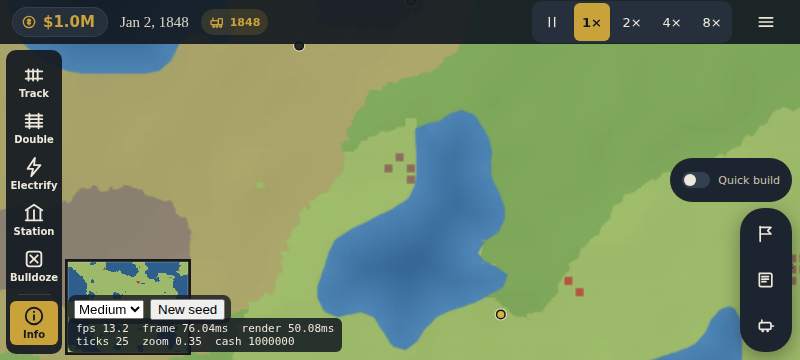
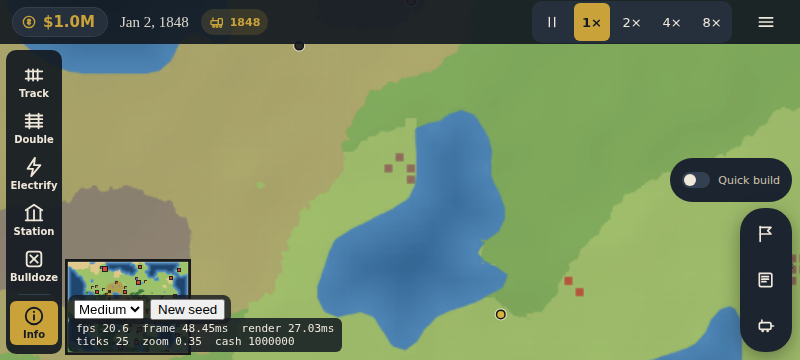
Phase 25B: terrain-coloured minimap with industry dots, red city squares, dark track
Claude-Session: https://claude.ai/code/session_01XTFMv1jFciswgpu9t5rM9q

diff --git a/src/render/minimap.ts b/src/render/minimap.ts
@@ -10,19 +10,54 @@ import type { GameMap } from "../sim/map/types";
 import type { TrackGraph } from "../sim/track/graph";
 import type { Station } from "../sim/stations/types";
 import type { City } from "../sim/economy/types";
-import { terrainId } from "../sim/map/terrain";
+import { terrainId, type Terrain } from "../sim/map/terrain";
+import type { Industry } from "../sim/economy/types";
+import { shoreDistanceField } from "./terrain";
+import { industryMarkerColor } from "./zoomMarkers";
 import { Camera, TILE_SIZE } from "./camera";
 import {
-  CITY_ROOF_COLORS,
   MINIMAP_BG,
+  MINIMAP_CITY_COLOR,
+  MINIMAP_PEAK_COLOR,
+  MINIMAP_TERRAIN_COLORS,
+  MINIMAP_WATER_DEEP,
+  MINIMAP_WATER_SHALLOW,
   MINIMAP_STATION_COLOR,
   MINIMAP_TRACK_COLOR,
   MINIMAP_VIEWPORT_BORDER,
-  TERRAIN_COLORS,
-  WATER_DEEP_COLOR,
 } from "./palette";
 
 const WATER_ID = terrainId("water");
+const MOUNTAIN_ID = terrainId("mountain");
+/** Tiles from the shore at which mini-map water reaches its deepest colour. */
+const WATER_DEPTH_REACH = 8;
+const CITY_SQUARE_PX: Record<City["tier"], number> = {
+  village: 2,
+  town: 3,
+  city: 4,
+  metropolis: 5,
+};
+
+type Rgb = readonly [number, number, number];
+function rgbOf(hex: string): Rgb {
+  return [
+    parseInt(hex.slice(1, 3), 16),
+    parseInt(hex.slice(3, 5), 16),
+    parseInt(hex.slice(5, 7), 16),
+  ];
+}
+function mixRgb(a: Rgb, b: Rgb, t: number): Rgb {
+  return [a[0] + (b[0] - a[0]) * t, a[1] + (b[1] - a[1]) * t, a[2] + (b[2] - a[2]) * t];
+}
+const WATER_SHALLOW_RGB = rgbOf(MINIMAP_WATER_SHALLOW);
+const WATER_DEEP_RGB = rgbOf(MINIMAP_WATER_DEEP);
+const MOUNTAIN_RGB = rgbOf(MINIMAP_TERRAIN_COLORS.mountain);
+const PEAK_RGB = rgbOf(MINIMAP_PEAK_COLOR);
+const PLAIN_RGB = rgbOf(MINIMAP_TERRAIN_COLORS.plain);
+const TERRAIN_RGB: Array<Rgb | undefined> = [];
+for (const t of Object.keys(MINIMAP_TERRAIN_COLORS) as Terrain[]) {
+  TERRAIN_RGB[terrainId(t)] = rgbOf(MINIMAP_TERRAIN_COLORS[t]);
+}
 
 export interface MiniMapRect {
   x: number;
@@ -57,6 +92,7 @@ export class MiniMapRenderer {
   private buildCache(
     trackGraph: TrackGraph,
     cities: readonly City[],
+    industries: readonly Industry[],
     sizePx: number,
   ): HTMLCanvasElement {
     const map = this.map;
@@ -68,39 +104,60 @@ export class MiniMapRenderer {
     canvas.height = h;
     const cctx = canvas.getContext("2d") as CanvasRenderingContext2D;
 
+    // Ground: every mini-map pixel is the average colour of the tiles under it (a box filter, so
+    // forests, hills and coasts stay soft instead of aliasing to one sampled tile).
+    const shore = shoreDistanceField(map);
+    const tileRgb = new Uint8Array(map.width * map.height * 3);
+    for (let idx = 0; idx < map.width * map.height; idx++) {
+      const id = map.terrain[idx] as number;
+      let rgb: readonly [number, number, number];
+      if (id === WATER_ID) {
+        rgb = mixRgb(
+          WATER_SHALLOW_RGB,
+          WATER_DEEP_RGB,
+          Math.min(1, Math.max(0, (shore[idx] as number) - 1) / WATER_DEPTH_REACH),
+        );
+      } else if (id === MOUNTAIN_ID) {
+        // Peaks lighter: the higher the mountain tile, the closer to the snow colour.
+        const peak = Math.min(1, Math.max(0, ((map.elevation[idx] as number) - 6) / 6));
+        rgb = mixRgb(MOUNTAIN_RGB, PEAK_RGB, peak * 0.85);
+      } else {
+        rgb = TERRAIN_RGB[id] ?? PLAIN_RGB;
+      }
+      tileRgb[idx * 3] = rgb[0];
+      tileRgb[idx * 3 + 1] = rgb[1];
+      tileRgb[idx * 3 + 2] = rgb[2];
+    }
     const img = cctx.createImageData(w, h);
     for (let py = 0; py < h; py++) {
-      const ty = Math.min(map.height - 1, Math.floor((py / h) * map.height));
+      const ty0 = Math.min(map.height - 1, Math.floor((py / h) * map.height));
+      const ty1 = Math.min(map.height, Math.max(ty0 + 1, Math.ceil(((py + 1) / h) * map.height)));
       for (let px = 0; px < w; px++) {
-        const tx = Math.min(map.width - 1, Math.floor((px / w) * map.width));
-        const idx = ty * map.width + tx;
-        const isWater = (map.terrain[idx] as number) === WATER_ID;
-        const hex = isWater ? WATER_DEEP_COLOR : TERRAIN_COLORS.plain;
-        const r = parseInt(hex.slice(1, 3), 16);
-        const g = parseInt(hex.slice(3, 5), 16);
-        const b = parseInt(hex.slice(5, 7), 16);
+        const tx0 = Math.min(map.width - 1, Math.floor((px / w) * map.width));
+        const tx1 = Math.min(map.width, Math.max(tx0 + 1, Math.ceil(((px + 1) / w) * map.width)));
+        let r = 0;
+        let g = 0;
+        let b = 0;
+        let n = 0;
+        for (let ty = ty0; ty < ty1; ty++) {
+          for (let tx = tx0; tx < tx1; tx++) {
+            const o = (ty * map.width + tx) * 3;
+            r += tileRgb[o] as number;
+            g += tileRgb[o + 1] as number;
+            b += tileRgb[o + 2] as number;
+            n++;
+          }
+        }
         const o = (py * w + px) * 4;
-        img.data[o] = r;
-        img.data[o + 1] = g;
-        img.data[o + 2] = b;
+        img.data[o] = r / n;
+        img.data[o + 1] = g / n;
+        img.data[o + 2] = b / n;
         img.data[o + 3] = 255;
       }
     }
     cctx.putImageData(img, 0, 0);
 
-    // Cities: a small tinted patch per footprint tile, cycling the same roof colors used on-map.
-    for (const city of cities) {
-      cctx.fillStyle = CITY_ROOF_COLORS[city.id % CITY_ROOF_COLORS.length] as string;
-      for (const idx of city.tiles) {
-        const x = idx % map.width;
-        const y = Math.floor(idx / map.width);
-        const px = Math.floor((x / map.width) * w);
-        const py = Math.floor((y / map.height) * h);
-        cctx.fillRect(px, py, 1, 1);
-      }
-    }
-
-    // Track: thin lines between edge endpoints.
+    // Track: thin dark lines between edge endpoints.
     cctx.strokeStyle = MINIMAP_TRACK_COLOR;
     cctx.lineWidth = 1;
     cctx.beginPath();
@@ -113,6 +170,36 @@ export class MiniMapRenderer {
       cctx.lineTo(bx, by);
     }
     cctx.stroke();
+
+    // Industries: tiny dots in the colour of their main product, on a dark pip so they read on any
+    // ground.
+    industries.forEach((ind, i) => {
+      if ((map.industryId[ind.y * map.width + ind.x] as number) !== i) return;
+      const x = Math.floor(((ind.x + 0.5) / map.width) * w);
+      const y = Math.floor(((ind.y + 0.5) / map.height) * h);
+      cctx.fillStyle = "rgba(14, 14, 18, 0.75)";
+      cctx.fillRect(x - 1, y - 1, 3, 3);
+      cctx.fillStyle = industryMarkerColor(ind.type);
+      cctx.fillRect(x, y, 2, 2);
+    });
+
+    // Cities: small red squares at the footprint centre, bigger for bigger cities.
+    for (const city of cities) {
+      if (city.tiles.length === 0) continue;
+      let sx = 0;
+      let sy = 0;
+      for (const idx of city.tiles) {
+        sx += idx % map.width;
+        sy += Math.floor(idx / map.width);
+      }
+      const side = CITY_SQUARE_PX[city.tier];
+      const x = Math.round(((sx / city.tiles.length + 0.5) / map.width) * w - side / 2);
+      const y = Math.round(((sy / city.tiles.length + 0.5) / map.height) * h - side / 2);
+      cctx.fillStyle = "rgba(14, 14, 18, 0.7)";
+      cctx.fillRect(x - 0.5, y - 0.5, side + 1, side + 1);
+      cctx.fillStyle = MINIMAP_CITY_COLOR;
+      cctx.fillRect(x, y, side, side);
+    }
 
     return canvas;
   }
@@ -158,6 +245,7 @@ export class MiniMapRenderer {
     trackGraph: TrackGraph,
     stations: readonly Station[],
     cities: readonly City[],
+    industries: readonly Industry[],
     trackVersion: number,
     mapContentVersion: number,
     sizePx: number = MINIMAP_SIZE_PX,
@@ -165,7 +253,7 @@ export class MiniMapRenderer {
     const rect = this.screenRect(viewportH, sizePx);
     const key = `${sizePx}|${trackVersion}|${mapContentVersion}`;
     if (!this.cache || this.cacheKey !== key) {
-      this.cache = this.buildCache(trackGraph, cities, sizePx);
+      this.cache = this.buildCache(trackGraph, cities, industries, sizePx);
       this.cacheKey = key;
     }
 

diff --git a/e2e/phase25b.spec.ts b/e2e/phase25b.spec.ts
@@ -46,3 +46,28 @@ test("random map", async ({ page }) => {
   ]);
   for (const z of [0.35, 0.6, 1]) await shot(page, w / 2, h / 2, z, `random-z${z}`);
 });
+
+test.describe("minimap", () => {
+  test.use({ deviceScaleFactor: 3 });
+  test("minimap close-ups", async ({ page }) => {
+    await page.setViewportSize({ width: 800, height: 360 });
+    for (const [name, opts] of [
+      ["central-eu", { seed: 1, region: "central-eu" }],
+      ["random", { seed: 777, size: "medium", waterLevel: "normal", startYear: 1848 }],
+    ] as const) {
+      await page.goto("/?debug=1");
+      await page.waitForFunction(() => window.__game !== undefined);
+      await page.evaluate((o) => window.__game?.regenerate(o as never), opts);
+      // Hide the debug controls that sit over the minimap.
+      await page.evaluate(() => {
+        document.querySelector<HTMLElement>("#debug-overlay")?.style.setProperty("display", "none");
+        document.querySelector("select")?.parentElement?.style.setProperty("display", "none");
+      });
+      await page.waitForTimeout(700);
+      await page.screenshot({
+        path: `docs/screenshots/${PREFIX}-minimap-${name}.png`,
+        clip: { x: 60, y: 200, width: 150, height: 160 },
+      });
+    }
+  });
+});

diff --git a/src/render/palette.ts b/src/render/palette.ts
@@ -117,7 +117,22 @@ export const OVERLAY_PROFIT_NEUTRAL = "#B8BDC4";
 /** Mini-map (SPEC §10.1). */
 export const MINIMAP_BG = "rgba(10, 12, 16, 0.9)";
 export const MINIMAP_VIEWPORT_BORDER = "#F2B544";
-export const MINIMAP_TRACK_COLOR = "rgba(230, 224, 210, 0.8)";
+export const MINIMAP_TRACK_COLOR = "rgba(28, 24, 22, 0.92)";
+export const MINIMAP_CITY_COLOR = "#D8453C";
+/** Mini-map ground colours (Phase 25B): distinct per class, stronger than the on-map tones. */
+export const MINIMAP_TERRAIN_COLORS: Record<Terrain, string> = {
+  plain: "#9CC26A",
+  forest: "#3E7A3A",
+  hills: "#B0A24C",
+  mountain: "#7E6E60",
+  desert: "#E0C88A",
+  swamp: "#5E8A72",
+  water: "#2E5E8C",
+  river: "#8BB8A8",
+};
+export const MINIMAP_WATER_SHALLOW = "#5B9BCB";
+export const MINIMAP_WATER_DEEP = "#1F4670";
+export const MINIMAP_PEAK_COLOR = "#E4E0D8";
 export const MINIMAP_STATION_COLOR = "#F2B544";
 
 /** Industry structure colors — kept muted/industrial, distinct from the natural terrain palette. */

diff --git a/src/main.ts b/src/main.ts
@@ -985,6 +985,7 @@ function main(): void {
           state.trackGraph,
           state.stations,
           state.cities,
+          state.industries,
           state.trackVersion,
           state.mapContentVersion,
         );
